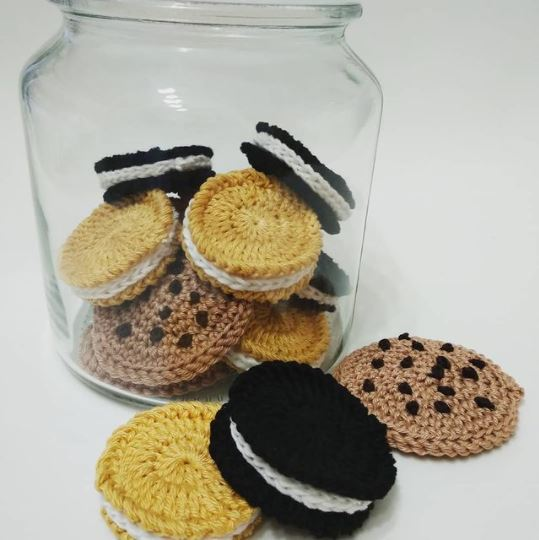
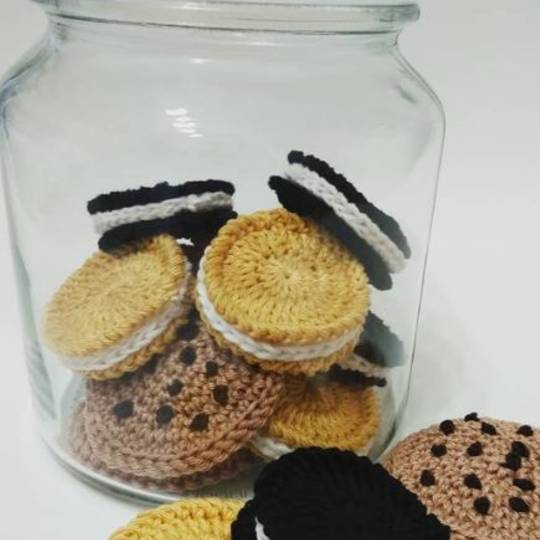
change on carousel

diff --git a/Sprint_2/Nivell_1/nivell_1.html b/Sprint_2/Nivell_1/nivell_1.html
@@ -17,7 +17,6 @@
     <div class="containter-fluid">
         <div class="row">
             <div class="col-md-12">
-
                 <nav class="navbar navbar-light bg-light navbar-expand-lg fixed-top">
 
                     <img src="logo.JPG" width="50" height="50" alt="">
@@ -46,20 +45,88 @@
 
                 </nav>
 
-                <div id="carouselSlides" class="carousel offset-sm-3 slide col-sm-6 offset-sm-3" data-ride="carousel">
-                    <div class="carousel-inner">
-                        <div class="carousel-item active">
-                            <img src="gatete.JPG" class="d-block w-100" alt="gatete">
+                <div class="row">
+                    <div class="col-md-2">
+                    </div>
+                    <div class="col-md-8">
+                        <div class="carousel slide" id="carousel-test">
+                            <ol class="carousel-indicators">
+                                <li data-slide-to="0" data-target="#carousel-test" class="active">
+                                </li>
+                                <li data-slide-to="1" data-target="#carousel-test">
+                                </li>
+                                <li data-slide-to="2" data-target="#carousel-test">
+                                </li>
+                                <li data-slide-to="3" data-target="#carousel-test">
+                                </li>
+                            </ol>
+                            <div class="carousel-inner">
+                                <div class="carousel-item active">
+                                    <img class="d-block w-100" alt="Cookies de lana"
+                                        src="cookies.JPG">
+                                    <div class="carousel-caption">
+                                        <h4>
+                                            Crochet Cookies
+                                        </h4>
+                                        <p>
+                                            Cookies de cochet :) 
+                                        </p>
+                                    </div>
+                                </div>
+                                <div class="carousel-item">
+                                    <img class="d-block w-100" alt="Rosas de ganchillo"
+                                        src="flores.JPG">
+                                    <div class="carousel-caption">
+                                        <h4>
+                                            Rosas de ganchillo
+                                        </h4>
+                                        <p>
+                                            120 rosas de ganchillo. Listas para unirlas.
+                                        </p>
+                                    </div>
+                                </div>
+                                <div class="carousel-item">
+                                    <img class="d-block w-100" alt="monedero de crochet con forma de gato"
+                                        src="gatete.JPG">
+                                    <div class="carousel-caption">
+                                        <h4>
+                                            Monedero gatito
+                                        </h4>
+                                        <p>
+                                            Monedero de crochet con carita de gato.
+                                        </p>
+                                    </div>
+                                </div>
+                                <div class="carousel-item">
+                                    <img class="d-block w-100" alt="cesto con nombre de bebé"
+                                        src="noe.JPG">
+                                    <div class="carousel-caption">
+                                        <h4>
+                                            Regalo para bebé
+                                        </h4>
+                                        <p>
+                                            Cesto personalizaddo para regalo.
+                                        </p>
+                                    </div>
+                                </div>
+                                <!-- carousel navigation -->
+                            </div> <a class="carousel-control-prev" href="#carousel-test" data-slide="prev"><span
+                                    class="carousel-control-prev-icon"></span> <span class="sr-only">Previous</span></a>
+                            <a class="carousel-control-next" href="#carousel-test" data-slide="next"><span
+                                    class="carousel-control-next-icon"></span> <span class="sr-only">Next</span></a>
                         </div>
-                        <div class="carousel-item">
-                            <img src="noe.JPG" class="d-block w-100" alt="noe">
-                        </div>
-                        <div class="carousel-item">
-                            <img src="cookies.JPG" class="d-block w-100" alt="cookies">
-                        </div>
-                        <div class="carousel-item">
-                            <img src="flores.JPG" class="d-block w-100" alt="flores">
-                        </div>
+                        <p>
+                            Lorem ipsum dolor sit amet, <strong>consectetur adipiscing elit</strong>. Aliquam eget
+                            sapien sapien. Curabitur in metus urna. In hac habitasse platea dictumst. Phasellus eu sem
+                            sapien, sed vestibulum velit. Nam purus nibh, lacinia non faucibus et, pharetra in dolor.
+                            Sed iaculis posuere diam ut cursus. <em>Morbi commodo sodales nisi id sodales. Proin
+                                consectetur, nisi id commodo imperdiet, metus nunc consequat lectus, id bibendum diam
+                                velit et dui.</em> Proin massa magna, vulputate nec bibendum nec, posuere nec lacus.
+                            <small>Aliquam mi erat, aliquam vel luctus eu, pharetra quis elit. Nulla euismod ultrices
+                                massa, et feugiat ipsum consequat eu.</small>
+                        </p>
+                    </div>
+                    <div class="col-md-2">
                     </div>
                 </div>
 
